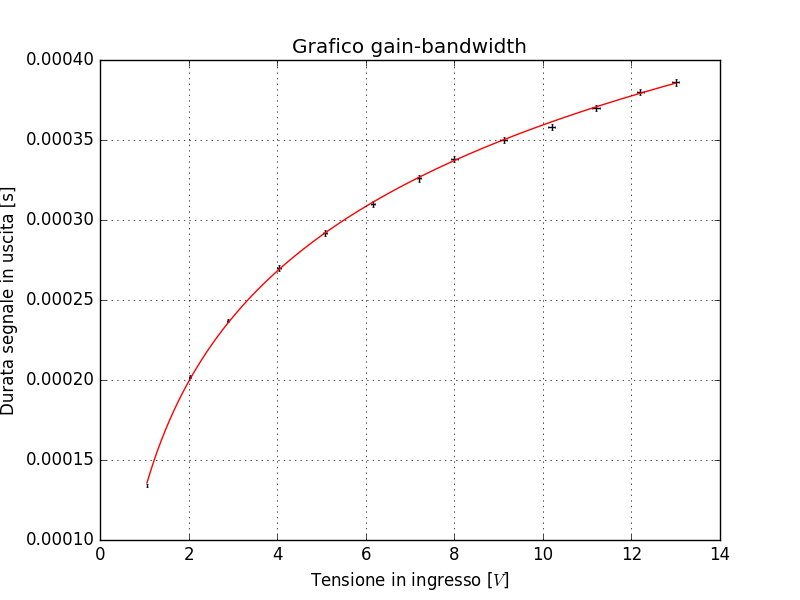
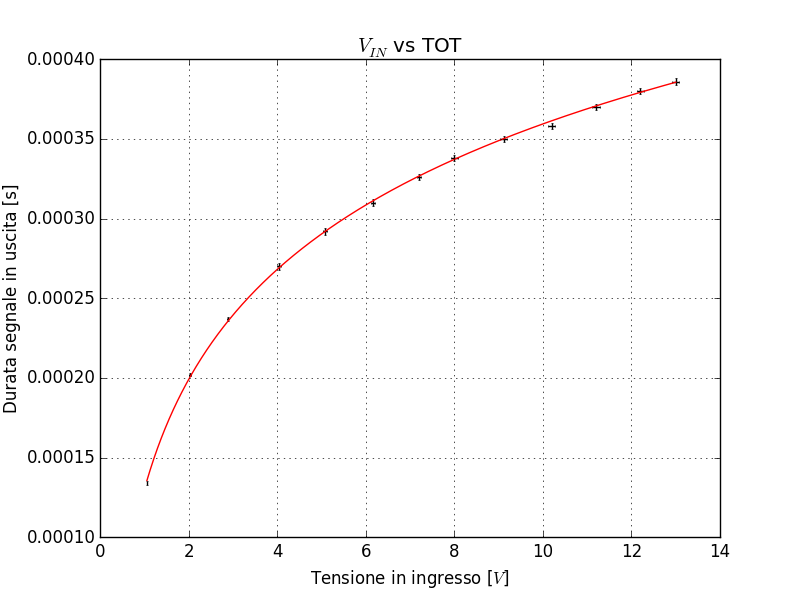
desfgh

diff --git a/Esercitazione7/relazione/Relazione7.tex b/Esercitazione7/relazione/Relazione7.tex
@@ -44,13 +44,7 @@
 
 \section{Scopo e strumentazione}
 
-Studiare il funzionamento dell’ OpAmp TL081 in circuiti non lineari, in particolare:
-\begin{itemize}
-\item un discriminatore,
-\item un amplificatore di carica,
-\item un trigger di Schmitt,
-\item un multivibratore astabile.
-\end{itemize}
+Studiare il funzionamento dell’ OpAmp TL081 in circuiti non lineari, in particolare: un discriminatore, un amplificatore di carica, un trigger di Schmitt e un multivibratore astabile.
 
 La strumentazione usata è quella presente sul banco di lavoro, più il suddetto OpAmp e due diodi Zener 1N753A da $\unit{6.2}{\volt}$.
 
@@ -66,7 +60,7 @@ Si è montato il circuito in \figurename{~\ref{circuito_discriminatore}} e se ne
 	\end{minipage}
 	\begin{minipage}{0.49\textwidth}
 		\centering
-		\includegraphics[width=0.9\textwidth]{../oscilloscopio/discriminator.jpg}
+		\includegraphics[width=0.8\textwidth]{../oscilloscopio/discriminator.jpg}
 		\caption{Risposta del circuito discriminatore}
 		\label{fig:discriminator}
 	\end{minipage}
@@ -77,7 +71,7 @@ Si è proceduto a studiare in maggior dettaglio il punto di zero-crossing e a mi
 
 \begin{figure}[H]
 	\centering
-	\includegraphics[width=0.45\textwidth]{../oscilloscopio/Vos.jpg}
+	\includegraphics[width=0.4\textwidth]{../oscilloscopio/Vos.jpg}
 	\caption{Zoom sul punto di zero-crossing e misura di $V_{OS}$}
 	\label{fig:vos}
 \end{figure}
@@ -97,7 +91,7 @@ Si è misurata la risposta a varie frequenze a parità di tensione di input (sem
 			$b = \unit{125 \pm 4}{\deci \bel}$ \\
 			$\chi^2 / ndof = 1.9/3$\\
 			$corr(a,b) = -0.9987$\\
-			$Af_h = \unit{2.57+/-0.16}{\mega\hertz}$
+			$Af_h = \unit{2.57 \pm 0.16}{\mega\hertz}$
 		\end{tabular}
 	\end{minipage}
 	\begin{minipage}{0.75\textwidth}
@@ -135,7 +129,7 @@ Si è montato il circuito in \figurename{~\ref{circuio_ampli}} con i seguenti va
 		\centering
 		\begin{tabular}{l}
 			$C_1 = \unit{21.0 \pm 0.9}{\nano\farad}$  \\ 
-			$C_T = \unit{1.00 \pm 0.05}{\nano\farad}$ \\
+			$C_T = \unit{0.99 \pm 0.05}{\nano\farad}$ \\
 			$C_F = \unit{1.00 \pm 0.05}{\nano\farad}$ \\
 			$R_1 = \unit{99.1 \pm 0.9}{k\ohm}$  \\
 			$R_2 = \unit{98.8 \pm 0.9}{\ohm}$
@@ -150,15 +144,22 @@ Si è montato il circuito in \figurename{~\ref{circuio_ampli}} con i seguenti va
 \end{figure}
  Si è quindi fissato il valore di soglia del discriminatore a $V_0 = \unit{271 \pm 2}{\milli\volt}$.
 \subsection{Risposta in condizioni ideali}
-Il circuito di iniezione di carica è costituito dal generatore di onde quadre e dal condensatore $C_T$. Il condensatore è messo a terra attraverso l'OpAmp formando quindi un circuito derivatore. Avendo in ingresso un onda quadra il derivatore restituisce degli impulsi che per un generatore di onde quadre ideale sarebbero delle delta, queste vanno a caricare il condensatore $C_F$, la tensione ai cui capi sarà pari alla tensione di alimentazione nell'ipotesi che le capacità $C_F$ e $C_T$ siano uguali.
+Il circuito di iniezione di carica è costituito dal generatore di onde quadre e dal condensatore $C_T$. Il condensatore è messo a terra attraverso l'OpAmp formando quindi un circuito derivatore. Avendo in ingresso un onda quadra il derivatore restituisce degli impulsi che per un generatore di onde quadre ideale sarebbero delle delta, queste vanno a caricare il condensatore $C_F$, la tensione ai cui capi sarà pari a $V_{IN}\cdot(C_T/C_F)$.
 
 Il condensatore $C_F$ inizierà quindi a scaricarsi attraverso la resistenza $R_1$ con un tempo caratteristico $\tau = R_1 \cdot C_F$. Quando la tensione sul condensatore scenderà sotto la tensione di soglia fissata attraverso il potenziometro $R_3$, il discriminatore cambierà stato.
 
 L'andamento teorico è stato verificato per una frequenza di $\sim \unit{100}{\hertz}$, che garantisce un'onda quadra ben formata, e un tensione di input di $\unit{6.00 \pm 0.20}{\volt}$, come visibile in \figurename{~\ref{ampli_carica}}. 
 
-La tensione misurata all'inizio della scarica all'output del primo OpAmp è $\unit{5.84 \pm 0.20}{\volt}$, compatibile con quanto atteso e la durata dell'impulso in output è $\unit{312 \pm 2}{\micro\second}$, anch'essa compatibile con il valore atteso $t^{exp} = \tau \cdot \text{ln}(V_{IN}/V_0) = \unit{304 \pm 16}{\micro\second}$.
+La tensione misurata all'inizio della scarica all'output del primo OpAmp è $\unit{5.84 \pm 0.20}{\volt}$, compatibile con quanto atteso (ovvero $V_{Sh}^{exp} = \unit{5.9 \pm 0.5}{\volt}$) e la durata dell'impulso in output è $\unit{312 \pm 2}{\micro\second}$, anch'essa compatibile con il valore atteso $t^{exp} = \tau \cdot \text{ln}(V_{IN}\cdot(C_T/C_F)/V_0) = \unit{303 \pm 17}{\micro\second}$.
 
-\subsection{}
+\begin{figure}[H]
+	\centering
+	\includegraphics[width=0.40\textwidth]{../oscilloscopio/vsh_vdiscr.jpg}
+	\caption{Risposta dell'amplificatore di carica}
+	\label{ampli_carica}
+\end{figure}
+
+\subsection{Risposta in ampiezza}
 Si è misurata la durata del segnale in uscita al variare dell'intensità del segnale in ingresso, i dati raccolti sono riportati in appendice in \tablename{~\ref{tab:V_t}}.
 Dalla teoria sappiamo che $t = \tau \cdot \text{ln}(V_{IN}/V_0)$, dove $V_0$ è la tensione di soglia fissata nel discriminatore e $\tau = R_1 \cdot C_F$.
 
@@ -181,6 +182,8 @@ Si sono fittate le misure eseguite, i grafici e i risultati del fit sono di segu
 		\label{}
 	\end{minipage}
 \end{figure}
+
+Nel misurare la durata del segnale in output si è fatta attenzione a misurare il momento in cui il segnale inizia a calare piuttosto che il punto in cui attraversa lo zero, in modo da eliminare gli effetti dovuti a tensioni di offset misurate nel circuito discriminatore al punto precedente.
 
 I risultati trovati sono in ottimo accordo con quelli attesi, cioè $\tau^{exp} = \unit{98 \pm 5}{\micro\second}$ e $V_0^{exp} = \unit{271 \pm 2}{\milli\volt}$, la tensione di soglia scelta all'inizio.
 
@@ -344,7 +347,7 @@ Che è consistente con quanto atteso. Infatti gli Zener hanno una tensione di br
 
 \paragraph{Zener e $R_3$} Quello che succede è che la tensione al terminale di output dell'OpAmp, dovuta all'alimentazione, è maggiore della massima caduta di tensione fissata dagli Zener. Per questo ai capi della resistenza $R_3$ si ha una data caduta di potenziale (che corrisponde a $V_{CC}-V_Z$), che porta ad una corrente che fluisce nella resistenza. In questo modo è possibile fissare il valore dei due stati di $V_{out}$ coi soli Zener, rendendo tali valori indipendenti dal valore dell'amplificazione dell'OpAmp e dall'alimentazione.
 
-\paragraph{Tensione $V_+$} Riguardo $V_+$ si ha che questa è determinato da $V_{out}$ e dal rapporto di partizione $R_1 - R_2$, che in questo caso, poiché $R_1 \sim R_2$ è circa la metà. Per l'esattezza il rapporto di partizione atteso è pari a $V_Z R_2/(R_1 + R_2) = \unit{0.5000 \pm 0.0028}$ mentre il rapporto fra le due tensioni misurate è pari a $\unit{0.510 \pm 0.022}$, e quindi i due valori sono compatibili.
+\paragraph{Tensione $V_+$} Riguardo $V_+$ si ha che questa è determinato da $V_{out}$ e dal rapporto di partizione $R_1 - R_2$, che in questo caso, poiché $R_1 \sim R_2$ è circa la metà. Per l'esattezza il rapporto di partizione atteso è pari a $V_Z R_2/(R_1 + R_2) = 0.5000 \pm 0.0028$ mentre il rapporto fra le due tensioni misurate è pari a $0.510 \pm 0.022$, e quindi i due valori sono compatibili.
 
 \paragraph{Tensione $V_-$} Questo segnale, come già detto e come si può osservare dalla \figurename{~\ref{fig:multivibratore-}, è una tipica onda a \emph{pinna di squalo}, cioè la successione di esponenziali crescenti e decrescenti, dovuti alle cariche e scariche del condensatore $C$. I valori misurati per le tensioni nei punti d'inversione sono $\pm \unit{3.52 \pm 0.11}{\volt}$.
 	
@@ -381,19 +384,17 @@ Si è provato a sostituire il condensatore $C$ e la resistenza $R$ in modo da au
 
 \begin{figure}[H]
         \centering
-        \includegraphics[width = 0.49\textwidth]{../oscilloscopio/multivibratore_scazzo.jpg}
+        \includegraphics[width = 0.45\textwidth]{../oscilloscopio/multivibratore_scazzo.jpg}
         \caption{Multivibratore oscillante ad una frequenza di $\sim \unit{53}{\kilo\hertz}$}
         \label{fig:scazzo}
 \end{figure}
 
 Si è trovato che il circuito approssimativamente genera in output un'onda quadra fino alla frequenza di $\sim \unit{10}{\kilo\hertz}$.
-
 \pagebreak
 \section{Appendice: Dati acquisiti}
 Si riportano qui le tabelle dei dati usati per i fit e i grafici.
-
 \centering
-\begin{figure}[h!]
+\begin{figure}[H]
 	\begin{minipage}[t]{0.49\textwidth}
 		\centering
 		\resizebox{0.7\textwidth}{!}{

diff --git a/Esercitazione7/Esercitazione7.py b/Esercitazione7/Esercitazione7.py
@@ -58,7 +58,7 @@ def XYfun(a):
 
 unit=[("volt_nc","osc"),("time","osc")]
 
-titolo="Grafico gain-bandwidth"
+titolo="$V_{IN}$ vs TOT"
 Xlab="Tensione in ingresso [$V$]"
 Ylab="Durata segnale in uscita [s]"
 
